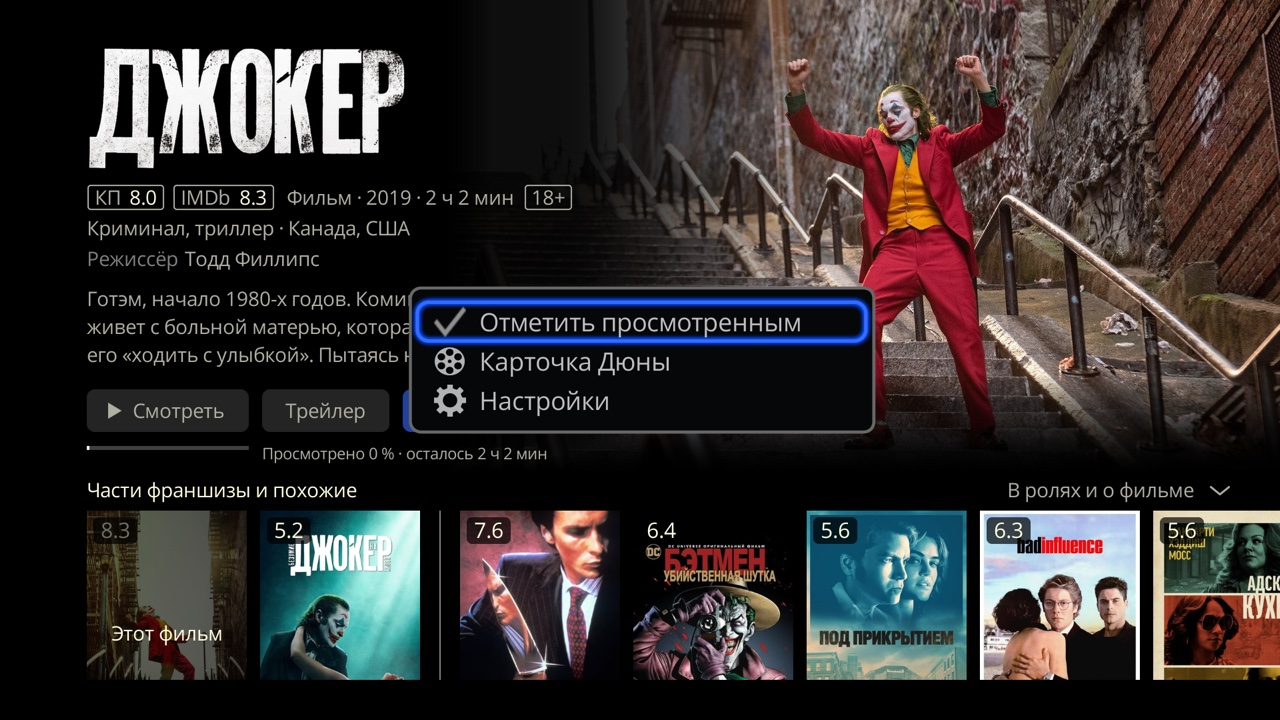
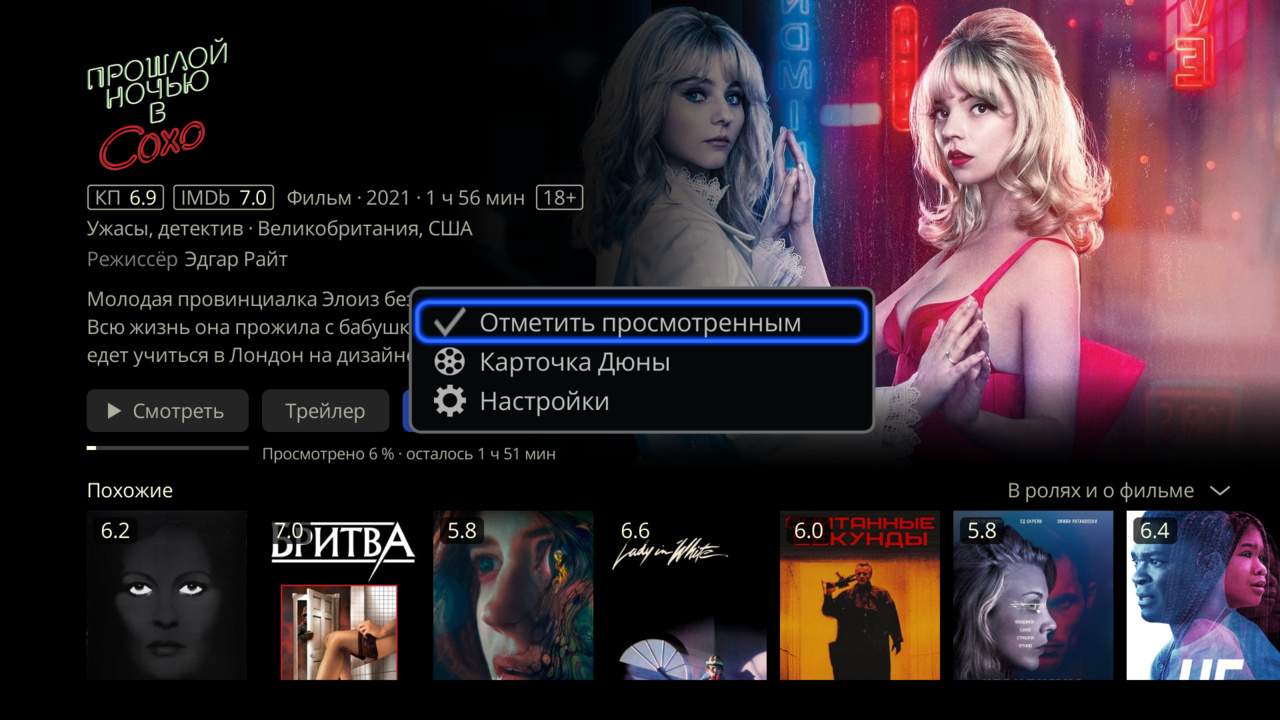
Гайд 0.62.0: значок истории, «Продолжить» в POP UP, новые кадры

diff --git a/docs/favorites.md b/docs/favorites.md
@@ -16,13 +16,17 @@
 
 4. Чтобы отложить фильм на потом, откройте его карточку (**ENTER** на постере) и нажмите «В избранное». Кнопка сменится на «В избранном». Нажмите её ещё раз, чтобы убрать.
 
-   <img src="../screenshots/progress-card-fav.jpg" alt="Своя карточка «Джокера»: фокус на «✓ В избранном» рядом с «Смотреть» и «Трейлер»" width="100%">
+   <img src="../screenshots/progress-card-fav.jpg" alt="Своя карточка «Прошлой ночью в Сохо»: фокус на «✓ В избранном» рядом с «Смотреть» и «Трейлер»" width="100%">
 
 5. В **MENU** карточки фильма можно отметить его просмотренным («Отметить просмотренным» или «Снять отметку») и открыть «Карточку Дюны».
 
-   <img src="../screenshots/progress-card-menu.jpg" alt="MENU своей карточки «Джокера»: «Отметить просмотренным», «Карточка Дюны», «Настройки»" width="100%">
+   <img src="../screenshots/progress-card-menu.jpg" alt="MENU своей карточки «Прошлой ночью в Сохо»: «Отметить просмотренным», «Карточка Дюны», «Настройки»" width="100%">
 
-6. Экран «Избранное» открывает сердечко на полосе сверху, рядом с лупой и шестерёнкой. Если на пульте есть кнопки **Fav**, то **Fav 2** (сердечко) тоже откроет «Избранное», а **Fav 1** — все начатые. Полный список ряда открывает и **ENTER** на его названии.
+6. Часы на полосе сверху каталога открывают всё начатое: фильмы и сериалы вместе. То же открывает пункт «Продолжить» в **POP UP**.
+
+   <img src="../screenshots/progress-clock.jpg" alt="Каталог, вкладка «Сериалы»: фокус на часах на полосе сверху, слева от сердечка, ниже ряды «Продолжить» и «Избранное»" width="100%">
+
+7. Экран «Избранное» открывает сердечко на полосе сверху, между часами и лупой. Если на пульте есть кнопки **Fav**, то **Fav 2** (сердечко) тоже откроет «Избранное», а **Fav 1** — все начатые. Полный список ряда открывает и **ENTER** на его названии.
 
    <img src="../screenshots/progress-heart.jpg" alt="Каталог, вкладка «Сериалы»: фокус на сердечке на полосе сверху, ниже ряды «Продолжить» и «Избранное»" width="100%">
 
@@ -30,11 +34,11 @@
 
    <img src="../screenshots/progress-favorites.jpg" alt="Экран «Избранное»: сетка постеров, фокус на «Джокере», в инфопанели «В избранном»" width="100%">
 
-7. На постере нажмите **POP UP**: в меню можно добавить в «Избранное» или убрать оттуда, отметить просмотренным или снять отметку, а в ряду «Продолжить» — убрать из него. У сериала отметка ставится на все вышедшие серии.
+8. На постере нажмите **POP UP**: в меню можно добавить в «Избранное» или убрать оттуда, отметить просмотренным или снять отметку, а в ряду «Продолжить» — убрать из него. У сериала отметка ставится на все вышедшие серии.
 
-   <img src="../screenshots/progress-popup.jpg" alt="POP UP на «Прошлой ночью в Сохо» в ряду «Продолжить»: «Убрать из «Продолжить»», «Отметить просмотренным», «Убрать из избранного», ниже переходы к разделам" width="100%">
+   <img src="../screenshots/progress-popup.jpg" alt="POP UP на «Игре престолов» в ряду «Продолжить»: «Убрать из «Продолжить»», «Отметить просмотренным», «Убрать из избранного», ниже «Фильмы», «Сериалы», «Продолжить», «Избранное», «Поиск», «Настройки»" width="100%">
 
-8. «Избранное» Melange своё, оно не связано с «Избранным» Дюны. Чтобы перенести туда фильмы и сериалы из «Избранного» Дюны, на экране «Избранное» нажмите **POP UP** на плитке (в пустом — на плитке с сердечком) и выберите «Добавить из «Избранного» Дюны». Melange добавит только то, чего ещё нет, и ничего не удалит. Появится «Добавлено из «Избранного» Дюны: N».
+9. «Избранное» Melange своё, оно не связано с «Избранным» Дюны. Чтобы перенести туда фильмы и сериалы из «Избранного» Дюны, на экране «Избранное» нажмите **POP UP** на плитке (в пустом — на плитке с сердечком) и выберите «Добавить из «Избранного» Дюны». Melange добавит только то, чего ещё нет, и ничего не удалит. Появится «Добавлено из «Избранного» Дюны: N», а у перенесённых сразу видны описание, жанры и рейтинг.
 
    <img src="../screenshots/progress-import.jpg" alt="Пустое «Избранное»: подсказка, плитка с сердечком и POP UP «Добавить из «Избранного» Дюны»" width="100%">
 

diff --git a/docs/favorites.en.md b/docs/favorites.en.md
@@ -16,13 +16,17 @@ Melange keeps what you started and what you saved for later in the first catalog
 
 4. To save a movie for later, open its card (**ENTER** on the poster) and press "Favorites". The button turns into "In Favorites". Press it again to remove the movie.
 
-   <img src="../screenshots/progress-card-fav.jpg" alt="Melange card for Joker: focus on In Favorites next to Watch and Trailer" width="100%">
+   <img src="../screenshots/progress-card-fav.jpg" alt="Melange card for Last Night in Soho: focus on In Favorites next to Watch and Trailer" width="100%">
 
 5. With **MENU** on a movie card you can mark it as watched ("Mark as watched" or "Mark as unwatched") or open its "Dune card".
 
-   <img src="../screenshots/progress-card-menu.jpg" alt="MENU on the Melange card for Joker: Mark as watched, Dune card, Settings" width="100%">
+   <img src="../screenshots/progress-card-menu.jpg" alt="MENU on the Melange card for Last Night in Soho: Mark as watched, Dune card, Settings" width="100%">
 
-6. The heart on the top bar, next to the magnifier and the gear, opens the Favorites screen. If your remote has **Fav** buttons, **Fav 2** (the heart) opens Favorites too, and **Fav 1** opens everything you started. **ENTER** on a row's name opens the whole row.
+6. The clock on the top bar of the catalog opens everything you started, movies and series together. "Continue Watching" in **POP UP** opens it too.
+
+   <img src="../screenshots/progress-clock.jpg" alt="Catalog, Series tab: focus on the clock on the top bar, left of the heart, Continue Watching and Favorites rows below" width="100%">
+
+7. The heart on the top bar, between the clock and the magnifier, opens the Favorites screen. If your remote has **Fav** buttons, **Fav 2** (the heart) opens Favorites too, and **Fav 1** opens everything you started. **ENTER** on a row's name opens the whole row.
 
    <img src="../screenshots/progress-heart.jpg" alt="Catalog, Series tab: focus on the heart on the top bar, Continue Watching and Favorites rows below" width="100%">
 
@@ -30,11 +34,11 @@ Melange keeps what you started and what you saved for later in the first catalog
 
    <img src="../screenshots/progress-favorites.jpg" alt="Favorites screen: a grid of posters, focus on Joker, In Favorites in the info panel" width="100%">
 
-7. On a poster, press **POP UP** to add it to Favorites or remove it, mark it as watched or unwatched, or, in Continue Watching, remove it from the row. Marking a series marks all its aired episodes.
+8. On a poster, press **POP UP** to add it to Favorites or remove it, mark it as watched or unwatched, or, in Continue Watching, remove it from the row. Marking a series marks all its aired episodes.
 
-   <img src="../screenshots/progress-popup.jpg" alt="POP UP on Last Night in Soho in Continue Watching: Remove from Continue Watching, Mark as watched, Remove from Favorites, then links to sections" width="100%">
+   <img src="../screenshots/progress-popup.jpg" alt="POP UP on Game of Thrones in Continue Watching: Remove from Continue Watching, Mark as watched, Remove from Favorites, then Movies, Series, Continue Watching, Favorites, Search, Settings" width="100%">
 
-8. Melange Favorites is separate from Dune Favorites. To bring movies and series over from Dune Favorites, on the Favorites screen press **POP UP** on a tile (on the empty screen, the heart tile) and choose "Add from Dune Favorites". Melange adds only what is missing and removes nothing. You see "Added from Dune Favorites: N".
+9. Melange Favorites is separate from Dune Favorites. To bring movies and series over from Dune Favorites, on the Favorites screen press **POP UP** on a tile (on the empty screen, the heart tile) and choose "Add from Dune Favorites". Melange adds only what is missing and removes nothing. You see "Added from Dune Favorites: N", and the added titles show their description, genres and rating right away.
 
    <img src="../screenshots/progress-import.jpg" alt="Empty Favorites: a hint, a heart tile and POP UP Add from Dune Favorites" width="100%">
 

diff --git a/docs/start.md b/docs/start.md
@@ -72,7 +72,7 @@ Melange — каталог фильмов и сериалов для Dune HD. В
 
 4. Откроется каталог Melange: можно выбирать фильм.
 
-   <img src="../screenshots/catalog.jpg" alt="Каталог Melange: сверху вкладки «Фильмы» и «Сериалы», справа сердечко, лупа и шестерёнка, ниже ряды «Продолжить», «Избранное», «В тренде»" width="100%">
+   <img src="../screenshots/catalog.jpg" alt="Каталог Melange: сверху вкладки «Фильмы» и «Сериалы», справа часы, сердечко, лупа и шестерёнка, ниже ряды «Избранное», «В тренде», «Популярное»" width="100%">
 
    Если появилось «TorrServer не отвечает», откройте TorrServe (он запустит сервер), потом снова Melange. Не помогло — проверьте шаг 1.
 

diff --git a/docs/watch.md b/docs/watch.md
@@ -6,7 +6,7 @@
 
 1. В каталоге Melange выберите вкладку «Фильмы» или «Сериалы» на полосе сверху.
 
-   <img src="../screenshots/watch-tabs.jpg" alt="Каталог Melange: фокус на вкладке «Фильмы», справа сердечко, лупа и шестерёнка" width="100%">
+   <img src="../screenshots/watch-tabs.jpg" alt="Каталог Melange: фокус на вкладке «Фильмы», справа часы, сердечко, лупа и шестерёнка" width="100%">
 
 2. Чтобы найти фильм по названию, откройте поиск (лупа на той же полосе), наберите название и подтвердите.
 

diff --git a/docs/start.en.md b/docs/start.en.md
@@ -72,7 +72,7 @@ Next: [first setup](#first-setup).
 
 4. The Melange catalog opens: you can pick a movie.
 
-   <img src="../screenshots/catalog.jpg" alt="Melange catalog: Movies and Series tabs at the top, heart, magnifier and gear on the right, Continue Watching, Favorites and other rows below" width="100%">
+   <img src="../screenshots/catalog.jpg" alt="Melange catalog: Movies and Series tabs at the top, clock, heart, magnifier and gear on the right, Favorites, Trending and other rows below" width="100%">
 
    If you see "TorrServer does not answer", open TorrServe (it starts the server), then Melange again. If that does not help, check step 1.
 

diff --git a/docs/watch.en.md b/docs/watch.en.md
@@ -6,7 +6,7 @@ Find and play a movie, then continue from the same spot. [← Contents](README.e
 
 1. In the Melange catalog, choose the "Movies" or "Series" tab on the bar at the top.
 
-   <img src="../screenshots/watch-tabs.jpg" alt="Melange catalog: focus on the Movies tab, heart, magnifier and gear on the right" width="100%">
+   <img src="../screenshots/watch-tabs.jpg" alt="Melange catalog: focus on the Movies tab, clock, heart, magnifier and gear on the right" width="100%">
 
 2. To find a movie by title, open search (the magnifier on the same bar), type the title and confirm.
 
